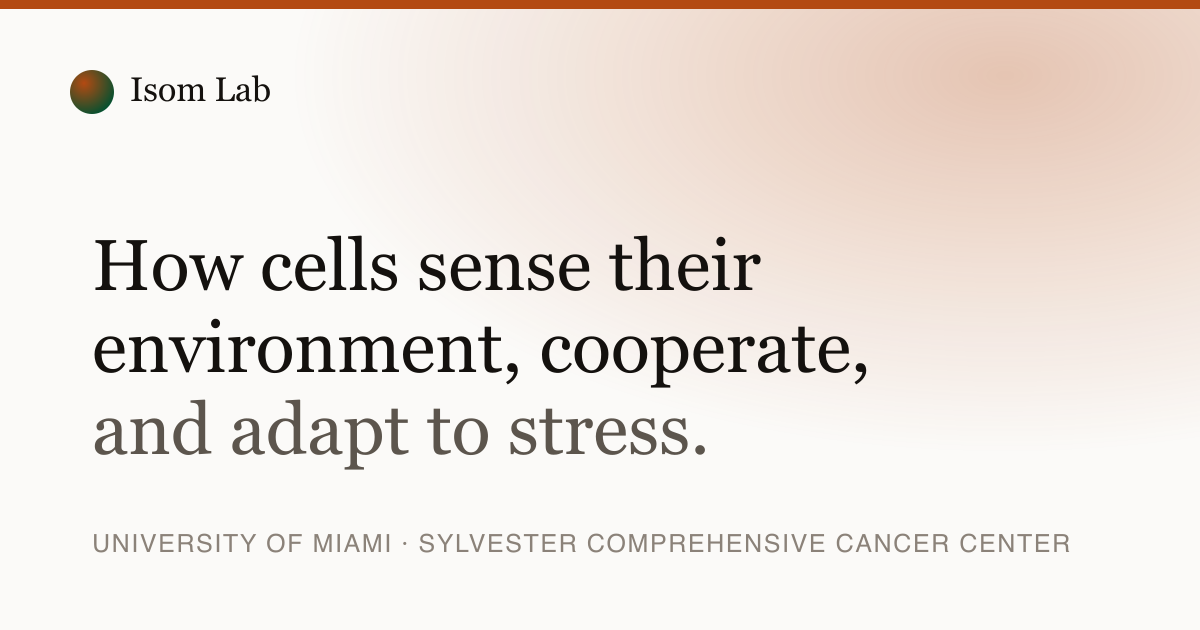
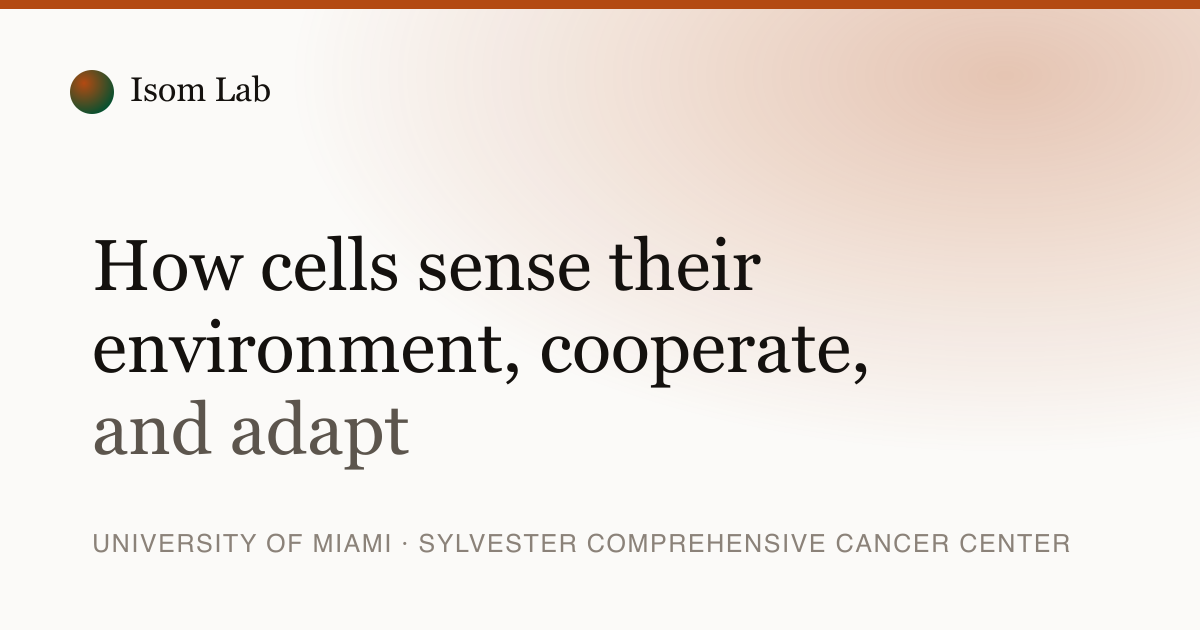
Shorten the headline to "...cooperate, and adapt"
Also regenerates the social card, which had the old wording baked in.

Changed region(s): [[0.3392, 0.6333, 0.5858, 0.7238]]

diff --git a/src/data/site.js b/src/data/site.js
@@ -1,6 +1,6 @@
 export const site = {
   name: 'Isom Lab',
-  tagline: 'How cells sense their environment, cooperate, and adapt to stress.',
+  tagline: 'How cells sense their environment, cooperate, and adapt',
   description:
     'The Isom Lab at the University of Miami Miller School of Medicine studies pH sensing by GPCRs, the dark proteome, and intercellular exchange — combining computation, imaging, and synthetic biology.',
   affiliations: [
